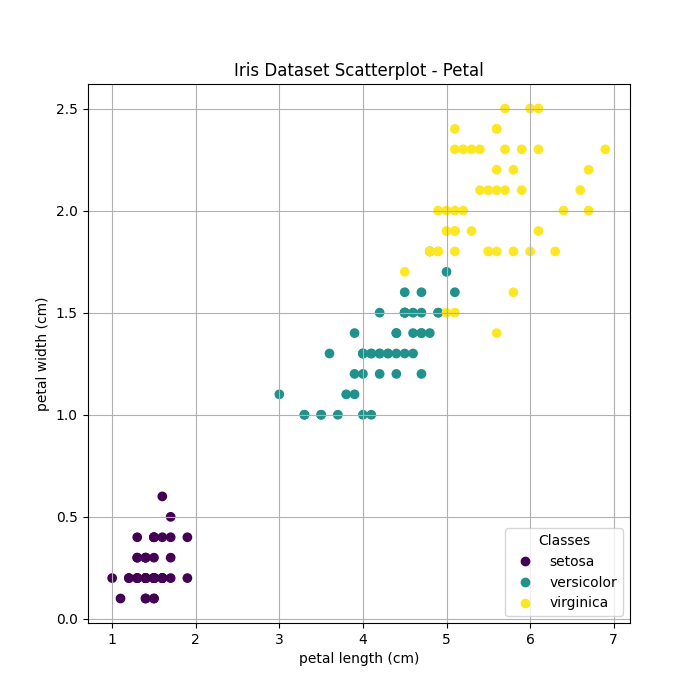
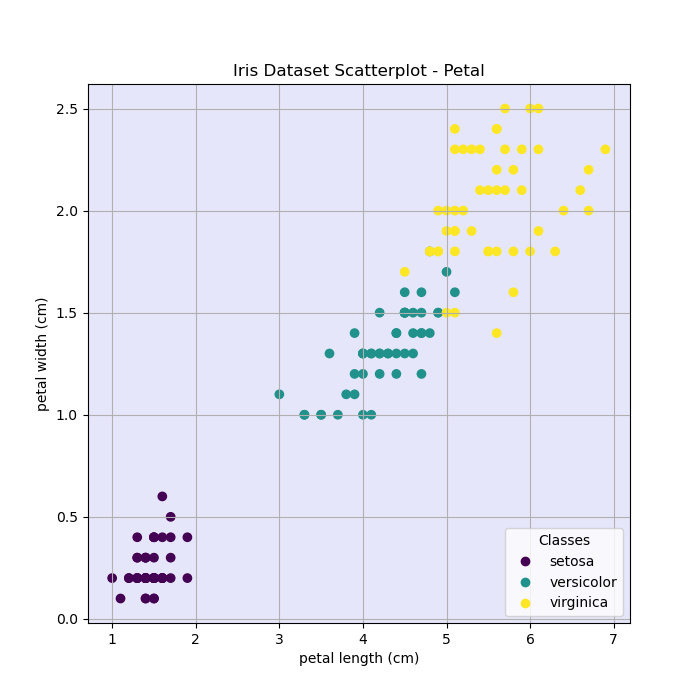
minor plot update

diff --git a/datasets.py b/datasets.py
@@ -59,6 +59,10 @@ class Iris():
         # set figure size
         plt.figure(figsize=(7, 7))
 
+        # set background color to lavender
+        ax = plt.axes()
+        ax.set_facecolor("lavender")
+
         # scatterplot
         sc = plt.scatter(sepal_lengths, sepal_widths, c = colors)
         plt.title('Iris Dataset Scatterplot - Sepal')
@@ -70,6 +74,10 @@ class Iris():
 
         # set figure size
         plt.figure(figsize=(7, 7))
+        
+        # set background color to lavender
+        ax = plt.axes()
+        ax.set_facecolor("lavender")
 
         # scatterplot
         sc = plt.scatter(petal_lengths, petal_widths, c = colors)
